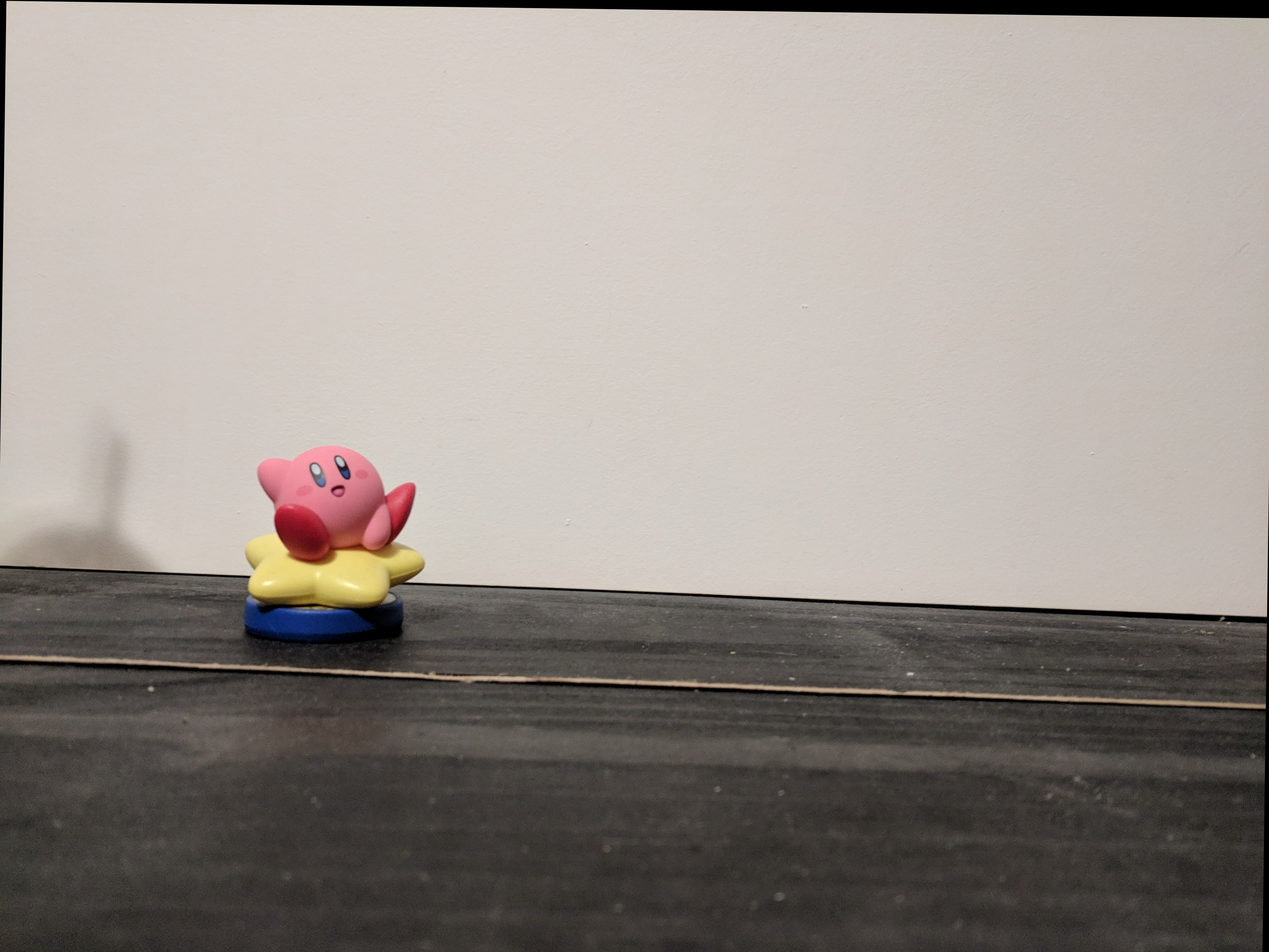
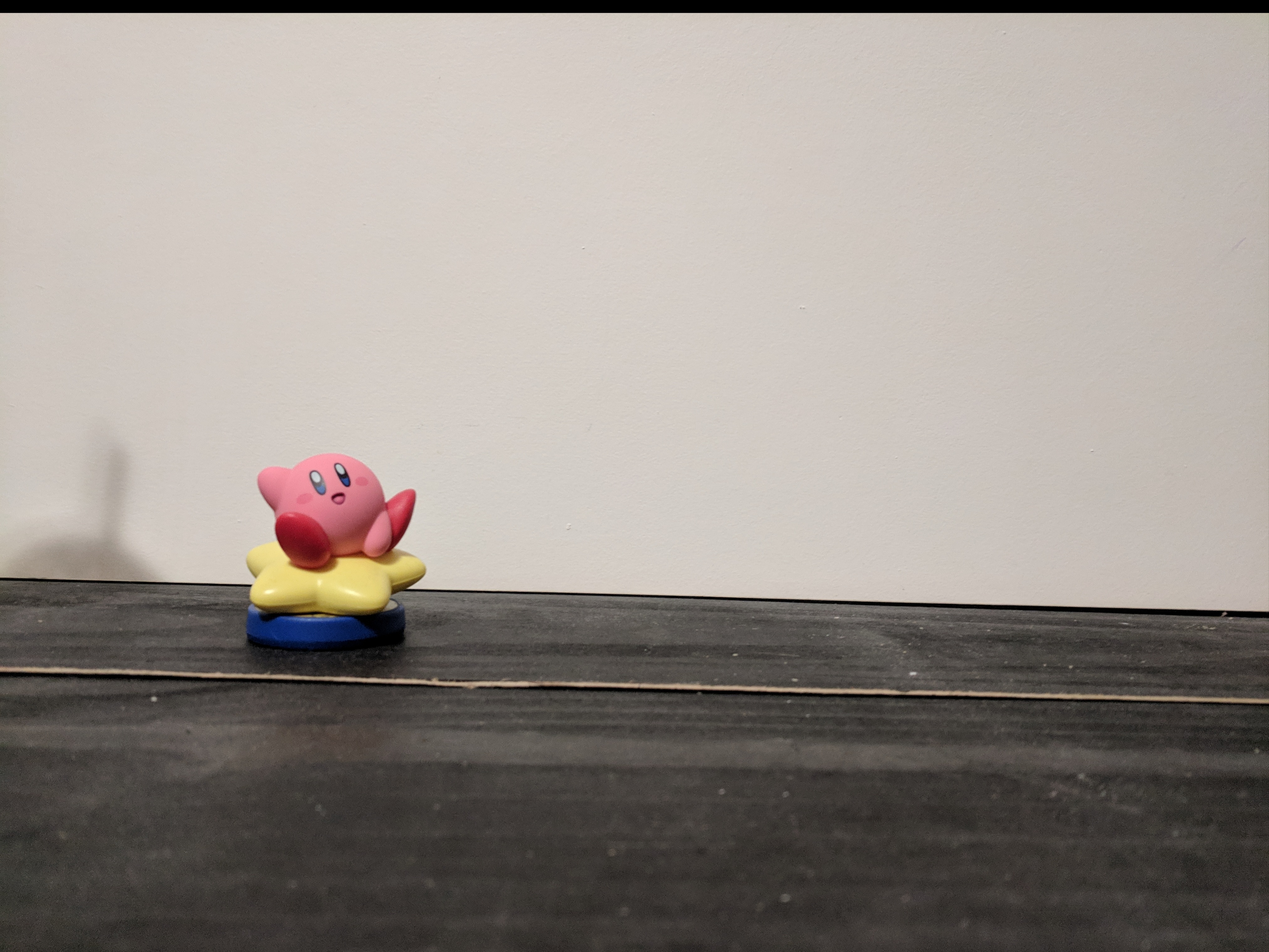
colour normalization

diff --git a/colour.py b/colour.py
@@ -1,0 +1,11 @@
+"""implementing colour correction for the resulting images"""
+import cv2
+from matplotlib import pyplot as plt
+
+def colour_correction(img):
+    """corrects the colour of an image"""
+    #img = cv2.imread(src)
+    img_hist = cv2.calcHist([img], [0], None, [256], [0, 256])
+    new = cv2.normalize(img, None, alpha=50, beta=255, norm_type=cv2.NORM_MINMAX)
+    new_hist = cv2.calcHist([new], [0], None, [256], [0, 256])
+    cv2.imwrite('./results/colour_corrected_kirby_4.jpg', new)
